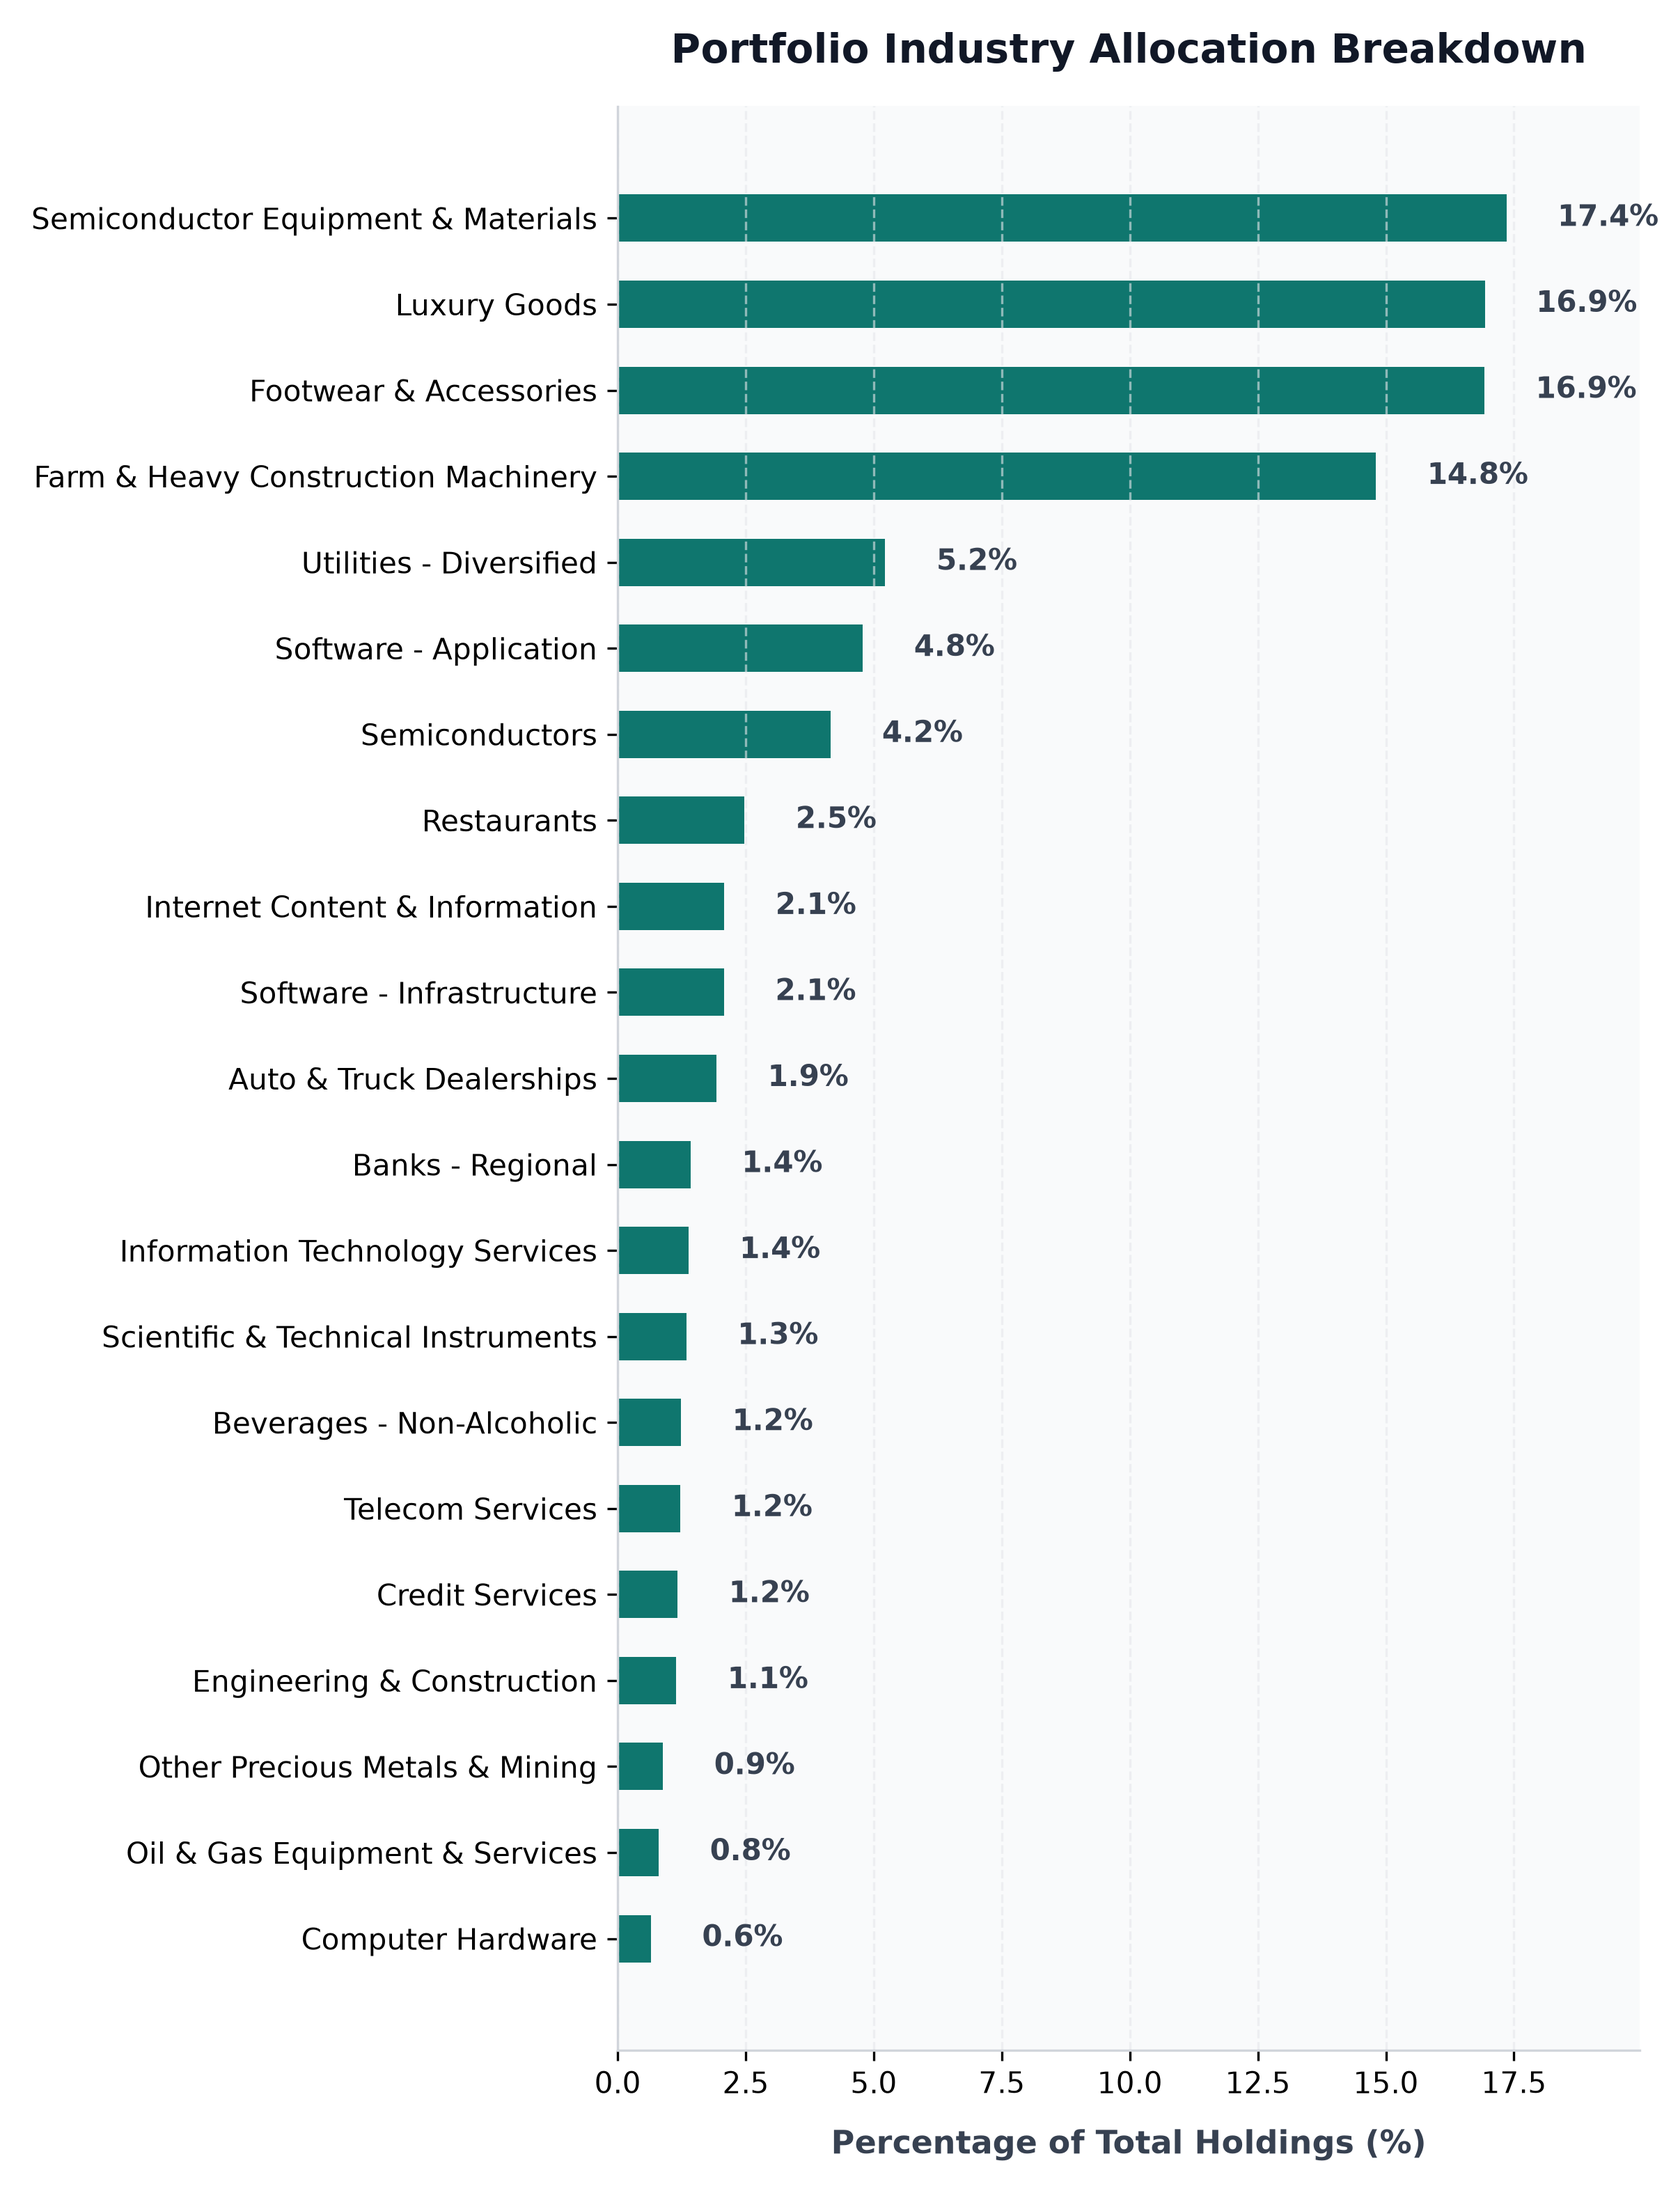
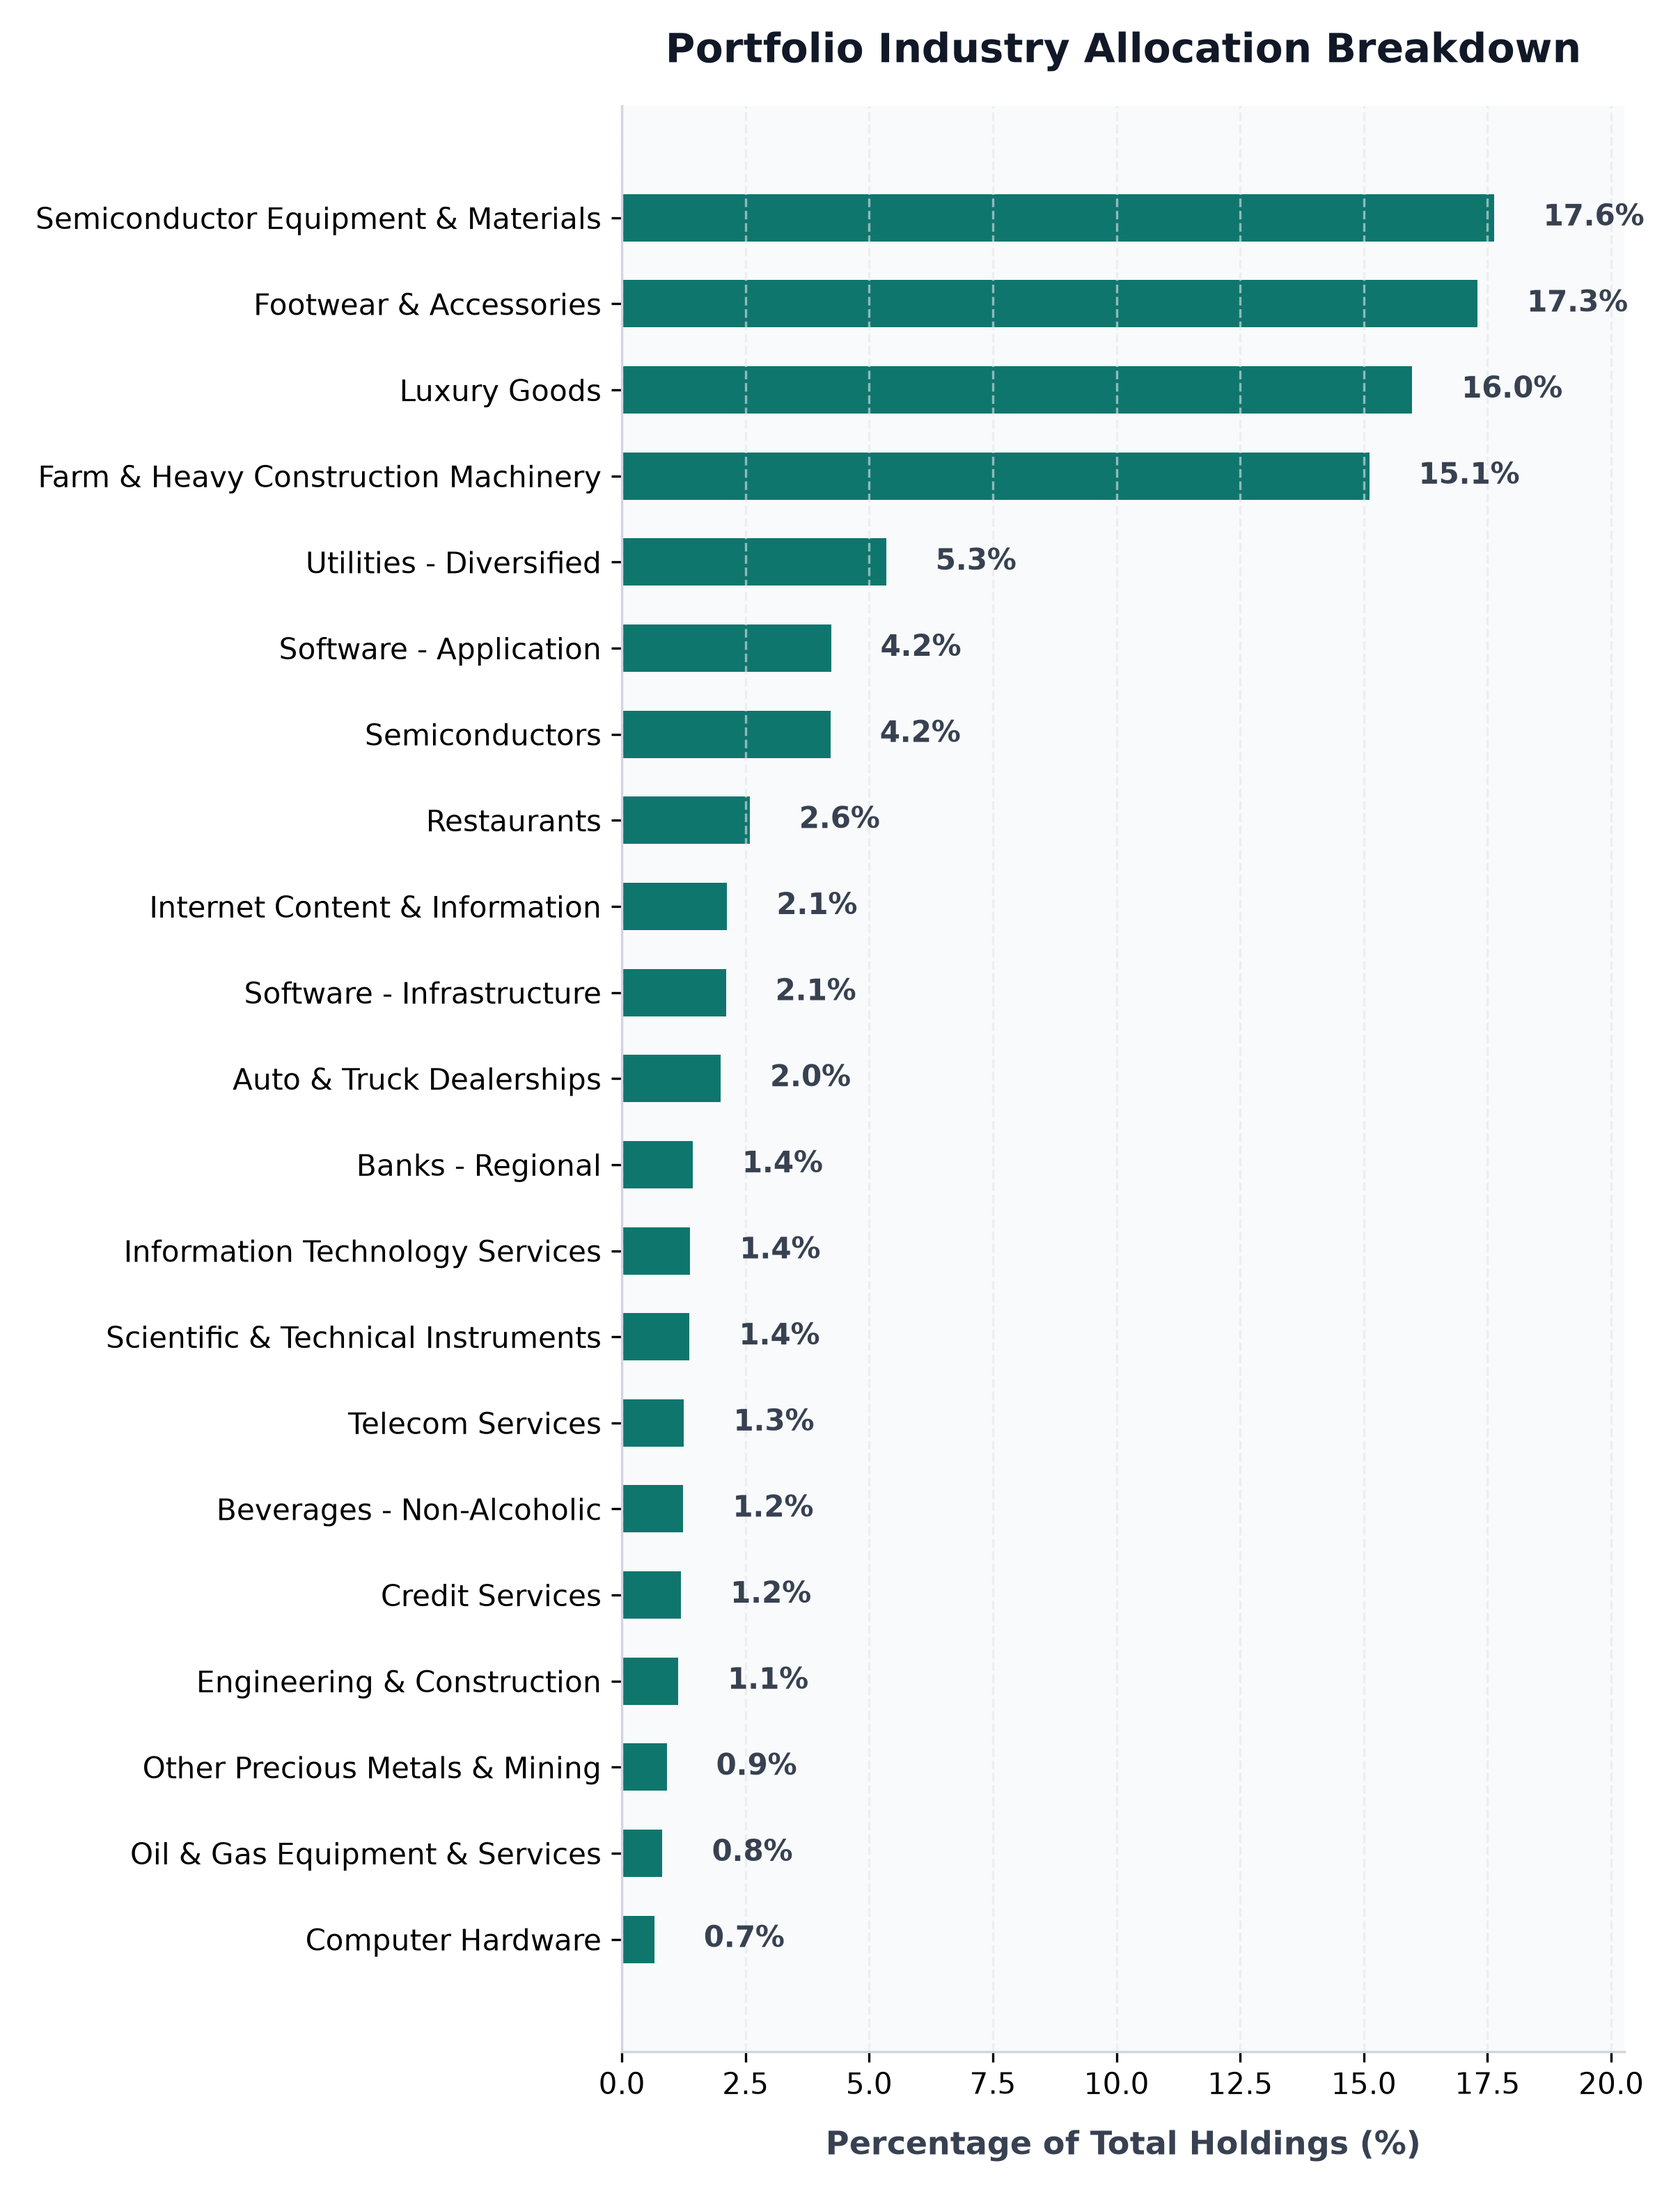
auto: daily portfolio status update - 2026-11-17 06:05:14

diff --git a/src/content/posts/portfolio-performance.md b/src/content/posts/portfolio-performance.md
@@ -1,6 +1,6 @@
 ---
 title: "BadOmen Algorithmic Portfolio Performance & PnL Report"
-pubDatetime: 2026-11-17T00:00:16.677373+08:00
+pubDatetime: 2026-11-17T06:05:14.023214+08:00
 description: "Live performance metrics, active holdings, and historic equity curve for the BadOmen automated paper trading portfolio."
 featured: true
 draft: false
@@ -16,11 +16,11 @@ Welcome to the live performance dashboard for **BadOmen**, our automated algorit
 ## 📊 Portfolio Summary
 | Performance Metric | Value | description |
 | :--- | :--- | :--- |
-| **Net Portfolio Equity** | **$102,632.47** | Total current liquidation value of cash and stock holdings |
-| **Total Unrealized P&L** | 🔴 **$-218.49** (-0.21%) | Total return of current open holdings |
-| **Cash Balance** | $16,312.67 | Idle reserve currency available for limit orders |
-| **Buying Power** | $306,946.11 | Margin-backed buying power for entry allocations |
-| **Report Updated** | `2026-11-17 00:00:16 (SGT)` | Timestamp of daily execution and sync run |
+| **Net Portfolio Equity** | **$100,785.50** | Total current liquidation value of cash and stock holdings |
+| **Total Unrealized P&L** | 🔴 **$-2,217.00** (-2.15%) | Total return of current open holdings |
+| **Cash Balance** | $16,994.71 | Idle reserve currency available for limit orders |
+| **Buying Power** | $302,593.05 | Margin-backed buying power for entry allocations |
+| **Report Updated** | `2026-11-17 06:05:14 (SGT)` | Timestamp of daily execution and sync run |
 
 ## 📈 Net Equity Growth Curve
 The chart below illustrates the historical performance of the account starting from our baseline capital funding of $100,000.00.
@@ -35,40 +35,41 @@ The chart below illustrates the exposure of our currently held active positions 
 ## 💼 Current Position Holdings
 | Ticker | Industry | Shares Owned | Average Entry Cost | Current Price | Unrealized P&L | Return (%) |
 | :--- | :--- | :--- | :--- | :--- | :--- | :--- |
-| **AN** | Auto & Truck Dealerships | 5 | $188.51 | $177.13 | 🔴 $-56.91 | -6.04% |
-| **AVGO** | Semiconductors | 1 | $385.71 | $332.96 | 🔴 $-52.75 | -13.68% |
-| **BIRK** | Footwear & Accessories | 407 | $37.32 | $35.89 | 🔴 $-581.08 | -3.83% |
-| **BLBD** | Farm & Heavy Construction Machinery | 231 | $65.52 | $55.33 | 🔴 $-2,354.11 | -15.55% |
-| **BVN** | Other Precious Metals & Mining | 32 | $31.88 | $23.82 | 🔴 $-257.76 | -25.27% |
-| **CELH** | Beverages - Non-Alcoholic | 33 | $29.71 | $32.35 | 🟢 +$87.03 | +8.88% |
-| **CPRI** | Luxury Goods | 695 | $14.13 | $21.03 | 🟢 +$4,794.03 | +48.81% |
-| **DUOL** | Software - Application | 14 | $131.04 | $168.53 | 🟢 +$524.73 | +28.60% |
-| **FIS** | Information Technology Services | 23 | $41.79 | $29.18 | 🔴 $-290.03 | -30.18% |
-| **GDDY** | Software - Infrastructure | 6 | $76.21 | $114.21 | 🟢 +$228.00 | +49.86% |
-| **GDS** | Information Technology Services | 30 | $32.77 | $17.30 | 🔴 $-464.25 | -47.22% |
-| **GGAL** | Banks - Regional | 17 | $56.04 | $29.25 | 🔴 $-455.34 | -47.80% |
-| **GOOGL** | Internet Content & Information | 3 | $319.44 | $288.64 | 🔴 $-92.39 | -9.64% |
-| **GPI** | Auto & Truck Dealerships | 3 | $316.15 | $260.06 | 🔴 $-168.27 | -17.74% |
-| **HUBS** | Software - Application | 8 | $221.18 | $221.46 | 🟢 +$2.23 | +0.13% |
-| **ITRI** | Scientific & Technical Instruments | 12 | $81.80 | $96.42 | 🟢 +$175.44 | +17.87% |
-| **KBR** | Engineering & Construction | 27 | $36.23 | $36.55 | 🟢 +$8.56 | +0.88% |
-| **LRCX** | Semiconductor Equipment & Materials | 70 | $214.93 | $213.96 | 🔴 $-68.16 | -0.45% |
-| **NESR** | Oil & Gas Equipment & Services | 34 | $28.74 | $20.33 | 🔴 $-285.94 | -29.26% |
-| **NU** | Banks - Regional | 57 | $11.60 | $12.81 | 🟢 +$69.34 | +10.49% |
-| **ON** | Semiconductors | 10 | $90.45 | $68.67 | 🔴 $-217.85 | -24.08% |
-| **ORCL** | Software - Infrastructure | 5 | $181.95 | $120.07 | 🔴 $-309.39 | -34.01% |
-| **PATH** | Software - Infrastructure | 38 | $10.25 | $13.34 | 🟢 +$117.23 | +30.10% |
-| **PYPL** | Credit Services | 17 | $56.05 | $59.40 | 🟢 +$56.95 | +5.98% |
-| **QCOM** | Semiconductors | 15 | $193.68 | $171.52 | 🔴 $-332.47 | -11.44% |
-| **SMCI** | Computer Hardware | 22 | $29.25 | $25.42 | 🔴 $-84.26 | -13.09% |
-| **SRE** | Utilities - Diversified | 57 | $84.75 | $79.11 | 🔴 $-321.62 | -6.66% |
-| **T** | Telecom Services | 47 | $20.85 | $22.50 | 🟢 +$77.78 | +7.94% |
-| **WEN** | Restaurants | 257 | $8.02 | $8.31 | 🟢 +$74.86 | +3.63% |
-| **ZG** | Internet Content & Information | 31 | $31.35 | $30.00 | 🔴 $-42.09 | -4.33% |
+| **AN** | Auto & Truck Dealerships | 5 | $188.51 | $178.07 | 🔴 $-52.19 | -5.54% |
+| **AVGO** | Semiconductors | 1 | $385.71 | $332.84 | 🔴 $-52.87 | -13.71% |
+| **BIRK** | Footwear & Accessories | 407 | $37.32 | $35.61 | 🔴 $-695.04 | -4.58% |
+| **BLBD** | Farm & Heavy Construction Machinery | 231 | $65.52 | $54.80 | 🔴 $-2,475.39 | -16.36% |
+| **BVN** | Other Precious Metals & Mining | 32 | $31.88 | $23.72 | 🔴 $-260.96 | -25.58% |
+| **CELH** | Beverages - Non-Alcoholic | 33 | $29.71 | $31.52 | 🟢 +$59.63 | +6.08% |
+| **CPRI** | Luxury Goods | 695 | $14.13 | $19.26 | 🟢 +$3,563.88 | +36.29% |
+| **DUOL** | Software - Application | 10 | $131.04 | $168.62 | 🟢 +$375.76 | +28.67% |
+| **FIS** | Information Technology Services | 23 | $41.79 | $28.43 | 🔴 $-307.28 | -31.97% |
+| **GDDY** | Software - Infrastructure | 6 | $76.21 | $112.22 | 🟢 +$216.06 | +47.25% |
+| **GDS** | Information Technology Services | 30 | $32.77 | $16.80 | 🔴 $-479.10 | -48.73% |
+| **GGAL** | Banks - Regional | 17 | $56.04 | $28.20 | 🔴 $-473.27 | -49.68% |
+| **GOOGL** | Internet Content & Information | 3 | $319.44 | $283.73 | 🔴 $-107.13 | -11.18% |
+| **GPI** | Auto & Truck Dealerships | 3 | $316.15 | $260.61 | 🔴 $-166.62 | -17.57% |
+| **HUBS** | Software - Application | 8 | $221.18 | $231.98 | 🟢 +$86.39 | +4.88% |
+| **ITRI** | Scientific & Technical Instruments | 12 | $81.80 | $95.61 | 🟢 +$165.72 | +16.88% |
+| **KBR** | Engineering & Construction | 27 | $36.23 | $35.35 | 🔴 $-23.84 | -2.44% |
+| **LRCX** | Semiconductor Equipment & Materials | 70 | $214.93 | $211.00 | 🔴 $-275.36 | -1.83% |
+| **NESR** | Oil & Gas Equipment & Services | 34 | $28.74 | $20.23 | 🔴 $-289.34 | -29.61% |
+| **NU** | Banks - Regional | 57 | $11.60 | $12.63 | 🟢 +$58.79 | +8.89% |
+| **ON** | Semiconductors | 10 | $90.45 | $67.61 | 🔴 $-228.45 | -25.26% |
+| **ORCL** | Software - Infrastructure | 5 | $181.95 | $118.97 | 🔴 $-314.90 | -34.61% |
+| **PATH** | Software - Infrastructure | 38 | $10.25 | $13.00 | 🟢 +$104.50 | +26.83% |
+| **PYPL** | Credit Services | 17 | $56.05 | $58.92 | 🟢 +$48.79 | +5.12% |
+| **QCOM** | Semiconductors | 15 | $193.68 | $168.22 | 🔴 $-381.97 | -13.15% |
+| **SMCI** | Computer Hardware | 22 | $29.25 | $25.00 | 🔴 $-93.60 | -14.54% |
+| **SRE** | Utilities - Diversified | 57 | $84.75 | $78.53 | 🔴 $-354.68 | -7.34% |
+| **T** | Telecom Services | 47 | $20.85 | $22.40 | 🟢 +$72.85 | +7.43% |
+| **WEN** | Restaurants | 257 | $8.02 | $8.42 | 🟢 +$103.02 | +5.00% |
+| **ZG** | Internet Content & Information | 31 | $31.35 | $30.05 | 🔴 $-40.40 | -4.16% |
 
 ## 🔴 Recent Realized Trades
 | Ticker | Shares Sold | Entry Price | Exit Price | Strategy Trigger | Realized Return | Exit Date |
 | :--- | :--- | :--- | :--- | :--- | :--- | :--- |
+| **DUOL** | 4 | $127.16 | $170.51 | Tier 1: Profit Lock (Up 30-50%) | 🟢 **+$+173.40** (++34.09%) | 2026-11-17 |
 | **CPRI** | 347 | $13.78 | $20.43 | Tier 1: Profit Lock (Up 30-50%) | 🟢 **+$+2307.55** (++48.26%) | 2026-11-03 |
 | **META** | 1 | $568.17 | $741.76 | Tier 1: Profit Lock (Up 30-50%) | 🟢 **+$+173.59** (++30.55%) | 2026-09-23 |
 | **NU** | 28 | $11.60 | $15.17 | Tier 1: Profit Lock (Up 30-50%) | 🟢 **+$+100.00** (++30.79%) | 2026-08-15 |
@@ -78,5 +79,4 @@ The chart below illustrates the exposure of our currently held active positions 
 | **PATH** | 41 | $10.25 | $13.93 | Tier 1: Profit Lock (Up 30-50%) | 🟢 **+$+150.88** (++35.90%) | 2026-08-06 |
 | **PATH** | 62 | $10.25 | $13.68 | Tier 1: Profit Lock (Up 30-50%) | 🟢 **+$+212.66** (++33.46%) | 2026-08-05 |
 | **GDDY** | 2 | $76.21 | $104.43 | Tier 1: Profit Lock (Up 30-50%) | 🟢 **+$+56.44** (++37.03%) | 2026-07-30 |
-| **GDDY** | 4 | $76.21 | $101.00 | Tier 1: Profit Lock (Up 30-50%) | 🟢 **+$+99.16** (++32.53%) | 2026-07-29 |
 
